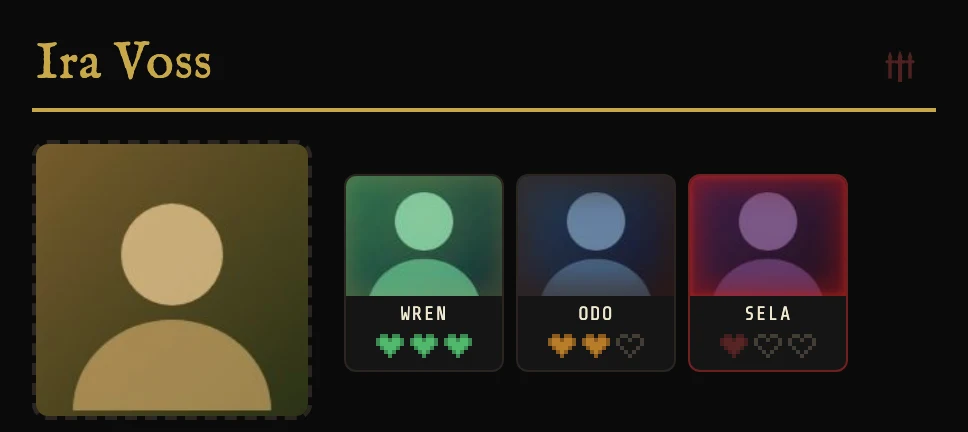
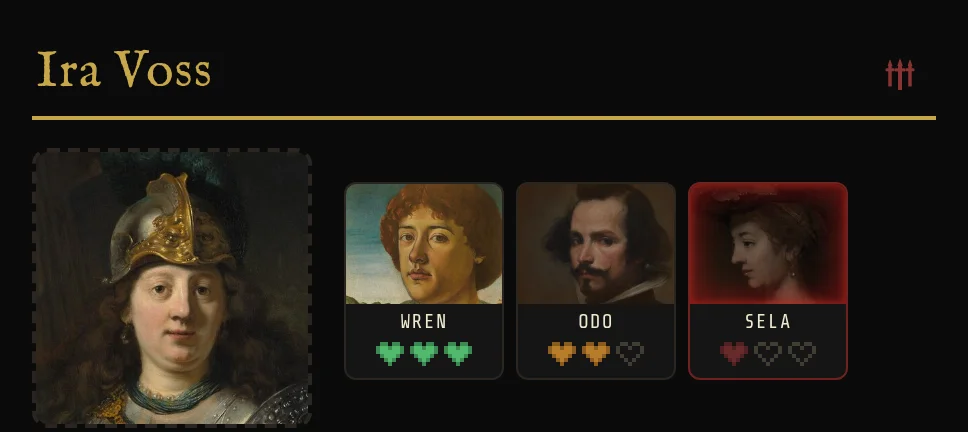
feat(site): public-domain portraits in The Dark Spire captures

diff --git a/site/index.html b/site/index.html
@@ -91,23 +91,23 @@
           <figure class="figure carousel" data-carousel>
             <div class="carousel-track" role="region" aria-roledescription="carousel" aria-label="The Dark Spire screenshots" tabindex="0">
               <div class="slide">
-                <a class="frame-link" href="assets/projects/shadowdark-sheet.webp" aria-label="View full image: Character sheet with combat stats, a longsword attack, and expanded advantage and disadvantage controls.">
-                  <span class="frame is-dark"><img src="assets/projects/shadowdark-sheet.webp" alt="Character sheet with combat stats, a longsword attack, and expanded advantage and disadvantage controls." width="968" height="1208" decoding="async"></span>
+                <a class="frame-link" href="assets/projects/shadowdark-sheet.webp" aria-label="View full image: Character sheet with a helmeted portrait, combat stats, a longsword attack, and expanded advantage and disadvantage controls.">
+                  <span class="frame is-dark"><img src="assets/projects/shadowdark-sheet.webp" alt="Character sheet with a helmeted portrait, combat stats, a longsword attack, and expanded advantage and disadvantage controls." width="968" height="1208" decoding="async"></span>
                 </a>
                 <div class="slide-caption">
                   <h4 class="slide-title">Rolls without the bookkeeping</h4>
                   <p class="slide-text">Character stats feed directly into checks, attacks, and spell rolls, with advantage and disadvantage beside each action. The TaleSpire integration matches returned dice to the initiating roll, even when results arrive out of order; standalone use provides a local fallback.</p>
-                  <p class="slide-source">Standalone browser · fictional character.</p>
+                  <p class="slide-source">Standalone browser · fictional character; portrait from a public-domain painting.</p>
                 </div>
               </div>
               <div class="slide">
-                <a class="frame-link" href="assets/projects/shadowdark-party.webp" aria-label="View full image: Party panel with three fictional characters at healthy, wounded, and critical health levels.">
-                  <span class="frame is-dark"><img src="assets/projects/shadowdark-party.webp" alt="Party panel with three fictional characters at healthy, wounded, and critical health levels." width="968" height="432" loading="lazy" decoding="async"></span>
+                <a class="frame-link" href="assets/projects/shadowdark-party.webp" aria-label="View full image: Party panel with portraits of three fictional characters at healthy, wounded, and critical health levels.">
+                  <span class="frame is-dark"><img src="assets/projects/shadowdark-party.webp" alt="Party panel with portraits of three fictional characters at healthy, wounded, and critical health levels." width="968" height="432" loading="lazy" decoding="async"></span>
                 </a>
                 <div class="slide-caption">
                   <h4 class="slide-title">Your party at a glance</h4>
                   <p class="slide-text">See connected characters’ names, portraits, and health without leaving your sheet. Behind the panel, synchronization reconciles overlapping connections, rejects stale updates from recently retired sessions, and checks portrait transfers before replacing the displayed image.</p>
-                  <p class="slide-source">Simulated TaleSpire session · fictional party.</p>
+                  <p class="slide-source">Simulated TaleSpire session · fictional party; portraits from public-domain paintings.</p>
                 </div>
               </div>
               <div class="slide">

diff --git a/DESIGN.md b/DESIGN.md
@@ -19,6 +19,7 @@ Production notes (feature galleries, 2026-09-30):
 - Script contract: index is the slide nearest `scrollLeft` (by slide offset, clamped; a zero-width hidden track keeps its last index); rapid clicks accumulate on the pending target; `scrollend` hands control back to the real position after a drag; a `ResizeObserver` re-snaps to the current slide instantly; `focusin` scrolls a keyboard-focused slide into view. Reduced motion inherits the global `scroll-behavior: auto`.
 - Focus: the track clips overflow, so a focused slide link draws its ring inside the `.frame` (inset by the ring width) rather than on the link.
 - Dark captures (Dark Spire, Darklight) sit in `.frame.is-dark`; portrait Darklight images are contained at native aspect, never cropped to fill 4:3.
+- Dark Spire sheet and party captures (`shadowdark-sheet.webp`, `shadowdark-party.webp`) are taken from the v1.0.1 release in Chromium at an 800px viewport, DPR 2, clipped to the 484px column so the fixed settings button stays out of frame. Character portraits are head crops of public-domain (CC0) paintings from The Met's Open Access collection, captioned on the slide as public-domain paintings: Ira Voss, Rembrandt, *Bellona*, 1633 (32.100.23); Wren, Biagio d'Antonio, *Portrait of a Young Man*, ca. 1470 (32.100.68); Odo, Velázquez, *Portrait of a Man*, ca. 1650 (89.15.29); Sela, Rembrandt, *Flora*, ca. 1654 (26.101.10). Party peers are injected through the app's `renderPartyPanel`, so the slide stays a simulated session.
 - Darklight slides are recorded clips, not stills: H.264 MP4 (`torchlight-timer|spell|board.mp4`, 1080×1800, 30 fps, 6–7 s, under 300 KB each), recorded from the real app under a virtual clock so frames are evenly spaced. Torch and spell loops cross-fade their last half second into the first, except the countdown, which cuts. Markup is `<video muted loop playsinline preload="none">` with a WebP poster of the first frame and no `autoplay` attribute. `site/media.js` plays a clip only while at least half of it is on screen. Under reduced motion it never plays on its own. A square play/pause toggle in the frame's top-right corner (WCAG 2.2.2) records the reader's choice, and that choice overrides the motion preference. Without JS, the poster shows and the link opens the MP4.
 - Full-size viewer (`site/media.js`): clicking any carousel frame link opens a native modal `<dialog class="lightbox">` scoped to that project's slides. It has an ink surround, the slide title as caption (the project title for Dungeon Mapper), an `n / N` count, prev/next arrows that disable at the ends with no wrap, arrow keys, touch swipe, Esc, a close button and click-outside to close. Media fit the stage at their own aspect through container units and are never upscaled past their declared width. Clips play with native controls, autoplaying unless reduced motion is set. Inline clips pause while the viewer is open. Closing focuses the last-viewed slide's link, so the carousel follows. Modified clicks (Ctrl/⌘/Shift/Alt) keep the native link behaviour.
 - Image provenance and captions are recorded in `.omo/drafts/portfolio-gallery-image-assessment.md` (private).
